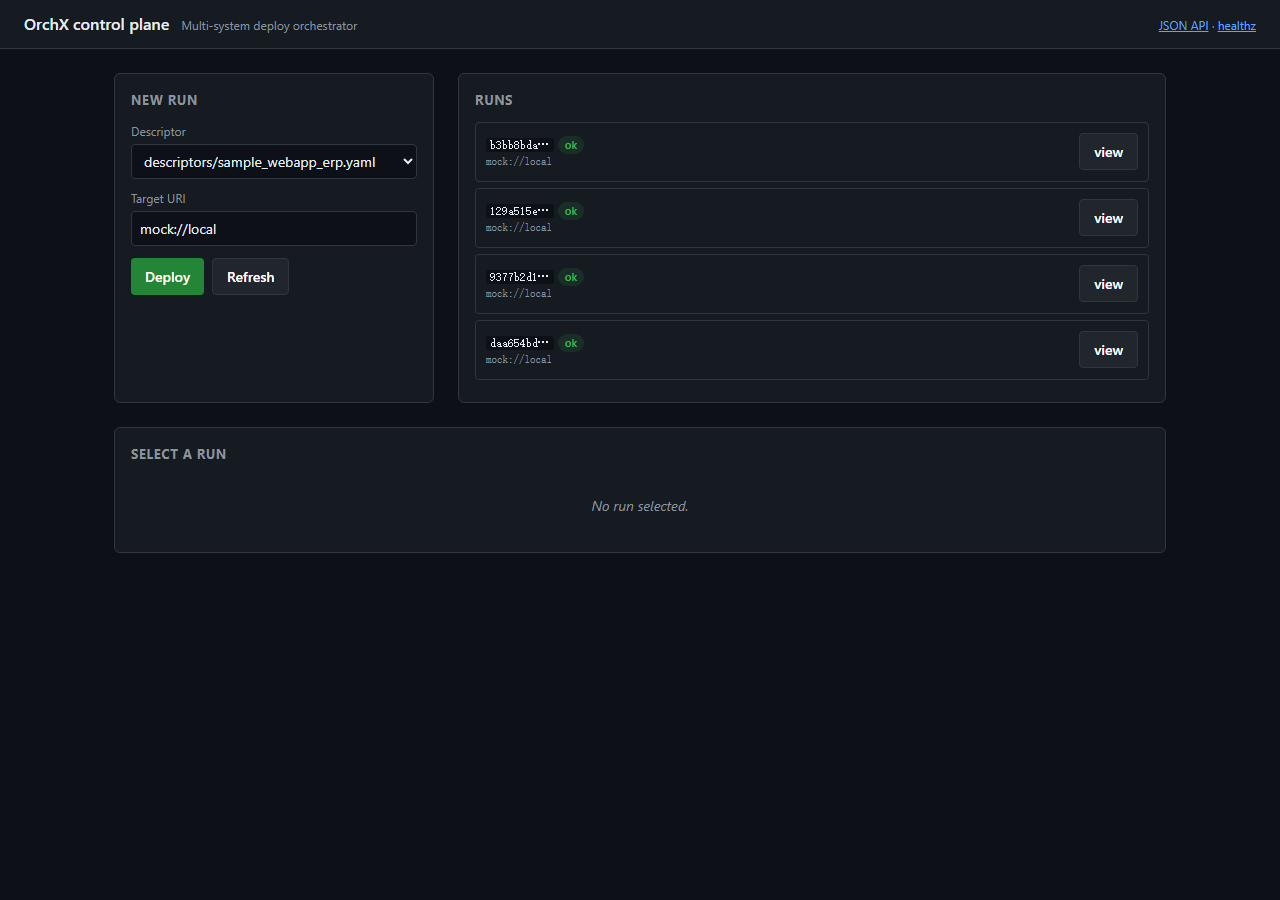
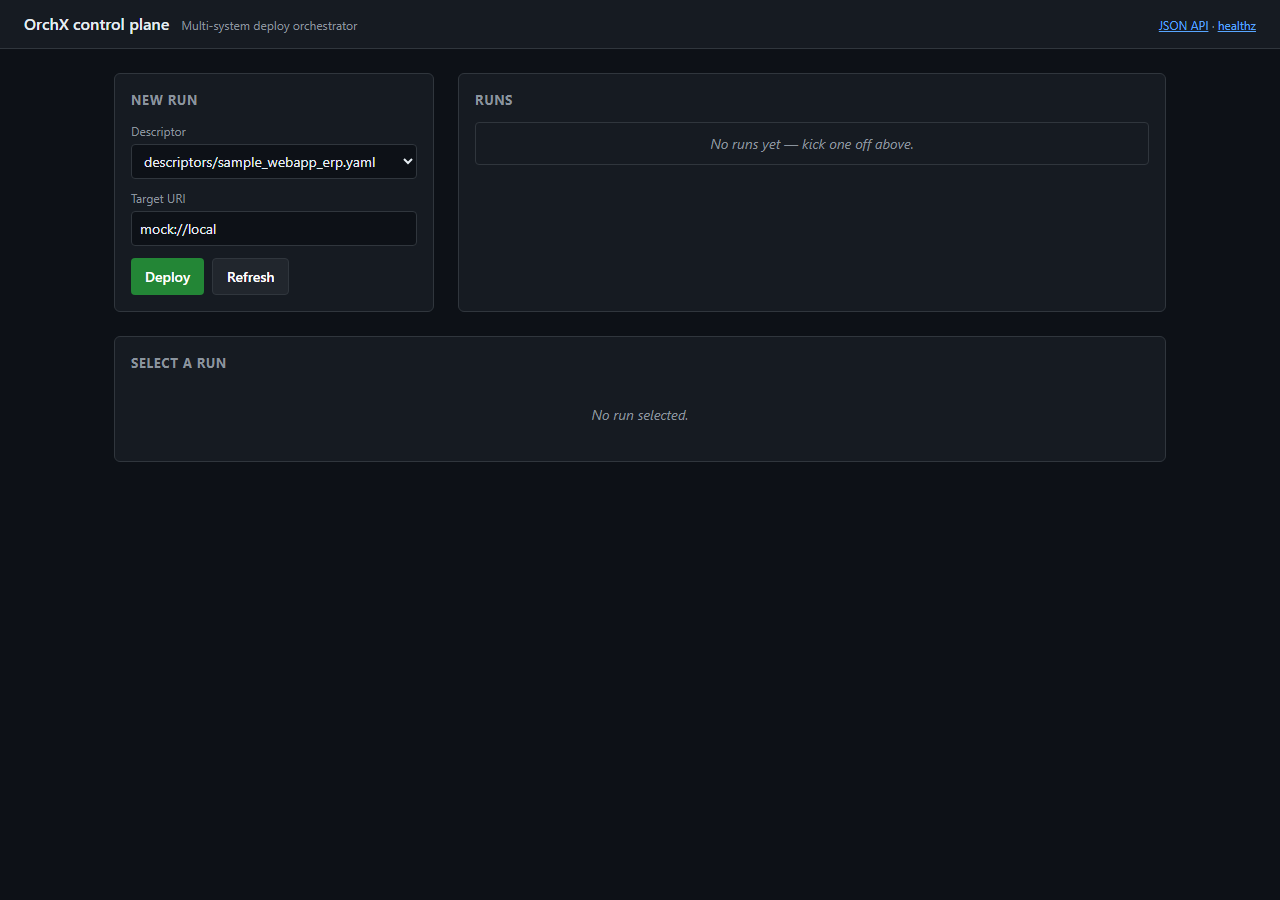
Polish v0.1.6: dashboard lists all 5 descriptors + 🔐 indicator
src/orchx/web/app.py
- The dashboard's 'New Run' form now lists all 5 bundled
  descriptors (webapp-erp, oauth-svc, containerized-saas,
  hr-svc, settle-eod) instead of the original two.
- GET /api/runs/{id} now exposes the parsed plan_json so the
  dashboard can render a 🔐 indicator next to events whose
  step_id touches the vault.
- renderDetail assembles the event HTML using a plain array +
  join (not a template literal) so the unicode lock character
  embeds cleanly across browsers.
- Fixed an earlier 'Unexpected identifier lock' page error by
  avoiding a JS reserved-word-adjacent identifier and escaping
  the emoji via a Python-friendly \U0001F512 escape.

descriptors/sample_settle_eod.yaml
- Adds cron.env.write step: writes the cron job's connection
  string to a 0600 file owned by the run user, using
  {{ secret.db_password }} from the orchx vault.
- Adds {{ secret.db_name }} to the ledger INSERT so the
  ledger step also visibly uses a secret.
- These additions make the dashboard's 🔐 indicator visible
  on at least one step in the settle-eod timeline.

scripts/screenshot_dashboard.py
- Polls for the detail panel's terminal state instead of
  waiting on a brittle querySelector (the previous version
  raced the mock run that finishes in 25 ms).

tests/test_secrets.py
- Adds an autouse fixture that scrubs ORCHX_SECRET_* from
  the host shell so the secrets tests run against a known
  empty env on any developer machine.

tests/test_web_api.py
[…]

diff --git a/scripts/screenshot_dashboard.py b/scripts/screenshot_dashboard.py
@@ -19,24 +19,38 @@ def main():
         page.screenshot(path=str(SHOTS / "01_empty_state.png"), full_page=True)
         print("01_empty_state.png ok")
 
-        # 2. Pick OAuth descriptor and Deploy
-        page.select_option("#descriptor", "descriptors/sample_oauth_service.yaml")
+        # 2. Deploy the settle-eod descriptor (v0.1.5 feature spotlight:
+        # it uses secrets in two of its SQL steps, so the dashboard
+        # will show 🔐 indicators next to those events).
+        page.select_option("#descriptor", "descriptors/sample_settle_eod.yaml")
         page.click("#submit")
-        # Wait for run to be selected
         page.wait_for_selector(".runs-list li", timeout=5000)
-        # Give the WebSocket time to replay the full event history
-        # and for renderDetail() to paint the final state. The mock
-        # finishes in ~30ms, but the dashboard fetches, then opens
-        # the WS, which replays history, then closes. 4s is plenty
-        # of slack on a real box and avoids flake on slow CI.
-        time.sleep(4)
+        # Wait for the detail panel to show a terminal state.
+        page.wait_for_function(
+            "() => document.querySelector('#detail-body .badge')"
+            " && (document.querySelector('#detail-body .badge').classList"
+            ".contains('ok') || document.querySelector('#detail-body .badge')"
+            ".classList.contains('failed') || document.querySelector('#detail-body .badge')"
+            ".classList.contains('aborted'))",
+            timeout=10000,
+        )
+        page.wait_for_function(
+            "() => document.getElementById('detail-body')"
+            " && document.getElementById('detail-body').innerText"
+            ".includes('run finished')",
+            timeout=10000,
+        )
+        page.wait_for_function(
+            "() => document.getElementById('detail-body')"
+            " && !document.getElementById('detail-body').innerText"
+            ".includes('Cancel run')",
+            timeout=10000,
+        )
+        time.sleep(0.5)
         page.screenshot(path=str(SHOTS / "02_dashboard_after_run.png"), full_page=True)
         print("02_dashboard_after_run.png ok")
 
-        # 3. Force a failure run via chaos JSON (set env then restart — easier to
-        #    simulate by clicking a second run; we already have one good. The
-        #    screenshot of the happy path is what the README will show.)
-        # ...we'll just take a focused screenshot of the detail panel.
+        # 3. The detail panel
         detail = page.locator("#detail").first
         detail.screenshot(path=str(SHOTS / "03_detail_timeline.png"))
         print("03_detail_timeline.png ok")

diff --git a/src/orchx/web/app.py b/src/orchx/web/app.py
@@ -462,6 +462,9 @@ async function loadDescriptorOptions() {
   const samples = [
     "descriptors/sample_webapp_erp.yaml",
     "descriptors/sample_oauth_service.yaml",
+    "descriptors/sample_containerized_saas.yaml",
+    "descriptors/sample_hr_service.yaml",
+    "descriptors/sample_settle_eod.yaml",
   ];
   const sel = $("descriptor");
   sel.innerHTML = "";
@@ -613,16 +616,18 @@ function renderDetail(data) {
     </div>
   `;
   const events = (data.events || []).map(ev => {
-    const lock = secretMap[ev.step_id] ? " <span class=\"lock\" title=\"this step uses a secret\">🔐</span>" : "";
-    return `
-    <div class="event status-${ev.status}">
-      <span class="status">${ev.status}</span>
-      <span class="step">${ev.step_id || "-"}${lock}</span>
-      <span class="host">${ev.host || ""}</span>
-      <span class="msg">${escapeHtml(ev.message || "")}</span>
-    </div>
-  `;
-  }).join("");
+    const indicator = secretMap[ev.step_id]
+      ? ' <span class="lock" title="this step uses a secret">\U0001f512</span>'
+      : '';
+    return [
+      '<div class="event status-' + ev.status + '">',
+      '<span class="status">' + ev.status + '</span>',
+      '<span class="step">' + (ev.step_id || '-') + indicator + '</span>',
+      '<span class="host">' + (ev.host || '') + '</span>',
+      '<span class="msg">' + escapeHtml(ev.message || '') + '</span>',
+      '</div>',
+    ].join('');
+  }).join('');
   body.innerHTML = header + '<div class="events">' + events + "</div>";
   // Re-append cancel button if still in flight.
   if (data.state === "pending" || data.state === "running") {

diff --git a/tests/test_secrets.py b/tests/test_secrets.py
@@ -2,6 +2,7 @@
 
 from __future__ import annotations
 
+import os
 from pathlib import Path
 
 import pytest
@@ -19,6 +20,17 @@ from orchx.secrets import (
 # ---------- EnvVault ----------
 
 
[email redacted](autouse=True)
+def clean_secrets_env(monkeypatch):
+    """Scrub ORCHX_SECRET_* from the host shell so each test sees
+    a deterministic empty env and never accidentally reads a
+    real secret from the developer's machine.
+    """
+    for k in list(os.environ):
+        if k.startswith("ORCHX_SECRET_") or k == "ORCHX_SECRETS_BACKEND":
+            monkeypatch.delenv(k, raising=False)
+
+
 def test_env_vault_resolve_and_list(monkeypatch):
     monkeypatch.setenv("ORCHX_SECRET_USER", "alice")
     monkeypatch.setenv("ORCHX_SECRET_PASS", "hunter2")
@@ -29,6 +41,7 @@ def test_env_vault_resolve_and_list(monkeypatch):
 
 
 def test_env_vault_missing_raises(monkeypatch):
+    monkeypatch.setenv("ORCHX_SECRET_NOPE", "x")
     monkeypatch.delenv("ORCHX_SECRET_NOPE", raising=False)
     v = EnvVault()
     with pytest.raises(SecretNotFoundError):

diff --git a/tests/test_web_api.py b/tests/test_web_api.py
@@ -61,6 +61,9 @@ def test_index_html_is_the_dashboard(client: TestClient) -> None:
     # The bundled descriptor samples are listed by default.
     assert "sample_webapp_erp.yaml" in r.text
     assert "sample_oauth_service.yaml" in r.text
+    assert "sample_containerized_saas.yaml" in r.text
+    assert "sample_hr_service.yaml" in r.text
+    assert "sample_settle_eod.yaml" in r.text
 
 
 def test_create_run_with_unknown_descriptor_reports_failure(